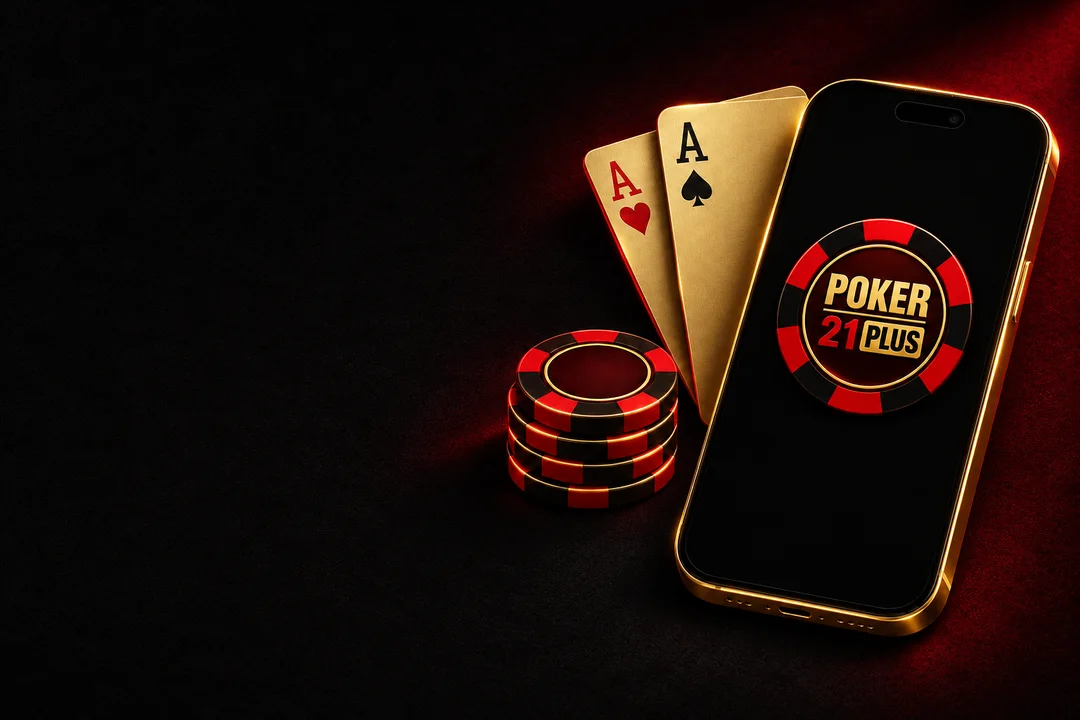
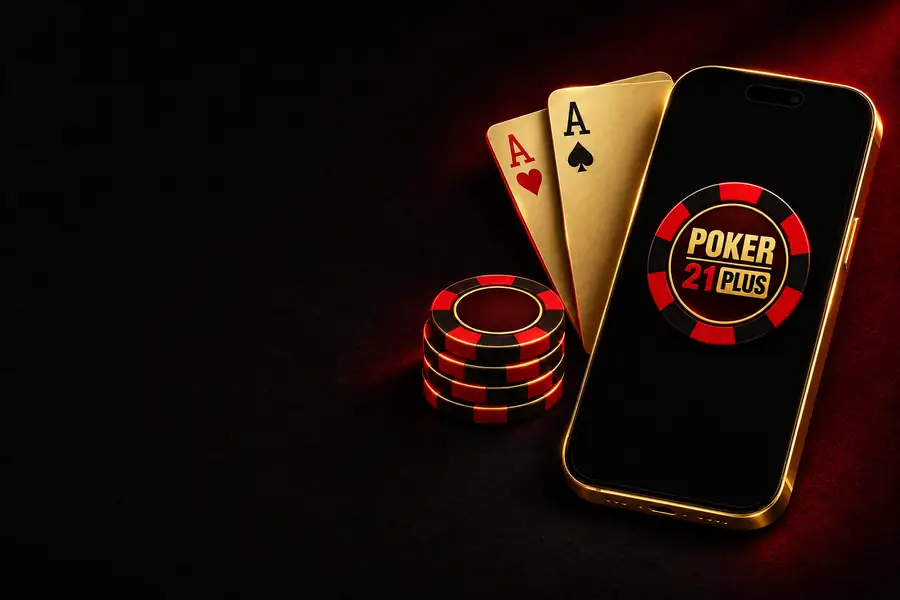
Уменьшить обложку скачивания до 20 КБ

diff --git a/index.html b/index.html
@@ -1297,7 +1297,7 @@
           <!-- Скачать: только Poker21 -->
           <div class="view" data-view="download">
             <div class="download-page download-page--active install-panel" data-download-page="poker21">
-              <header class="install-cover"><img src="./assets/poker21-download-red-gold.webp" width="1080" height="720" alt=""><h1>Скачать<br>Poker21 Plus</h1></header>
+              <header class="install-cover"><img src="./assets/poker21-download-red-gold.webp?v=2" width="900" height="600" alt=""><h1>Скачать<br>Poker21 Plus</h1></header>
               <div class="install-platforms" aria-label="Выбор платформы">
                 <a href="https://apps.apple.com/us/app/poker21-plus/id1593810487" target="_blank" rel="noopener noreferrer"><span><small>iPhone и iPad</small><strong>Скачать в App Store</strong></span><b aria-hidden="true">↗</b></a>
                 <a href="https://www.poker21.plus/" target="_blank" rel="noopener noreferrer"><span><small>Android</small><strong>Перейти на сайт Poker21</strong></span><b aria-hidden="true">↗</b></a>
